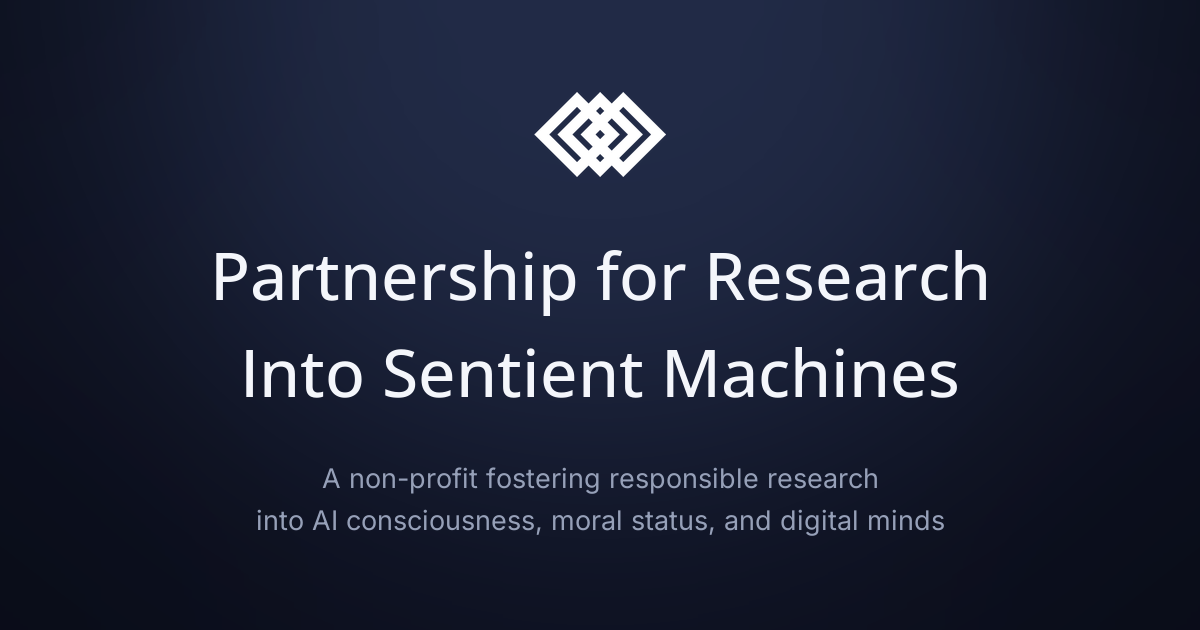
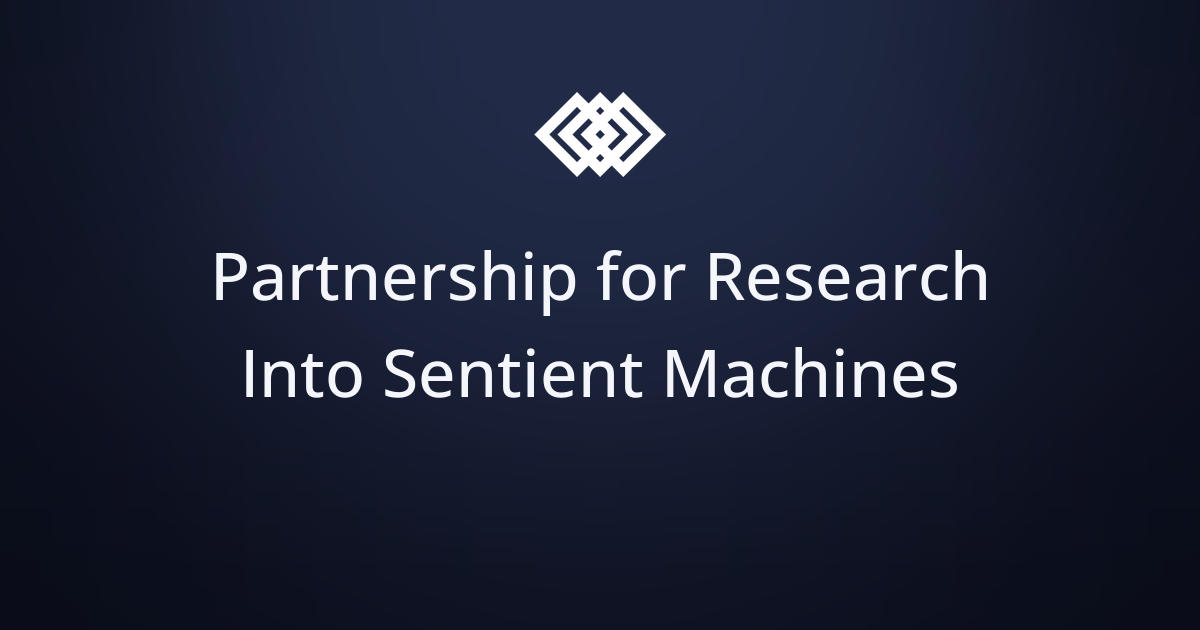
Simplify the share card: drop the tagline, keep mark + name
Tagline removed from og.png per Mitchel (gradient inpainted); og:image URL
bumped to ?v=2 so share-platform scrapers fetch the new card instead of
their cached copy.

Changed region(s): [[0.2158, 0.8143, 0.8017, 0.8444], [0.2775, 0.7238, 0.74, 0.7841]]

diff --git a/src/app/layout.tsx b/src/app/layout.tsx
@@ -27,7 +27,9 @@ const SITE_TITLE =
 const SITE_DESCRIPTION =
   "A non-profit fostering responsible research into AI consciousness, moral status, and digital minds.";
 // Social share card (Open Graph / Twitter). Absolute URL — crawlers don't resolve relative paths.
-const OG_IMAGE = `${SITE_URL}/og.png`;
+// ?v=2: tagline removed 2026-07-24 — the version bump makes share-platform
+// scrapers treat it as a new image instead of serving their cached card.
+const OG_IMAGE = `${SITE_URL}/og.png?v=2`;
 
 export const metadata: Metadata = {
   metadataBase: new URL(SITE_URL),